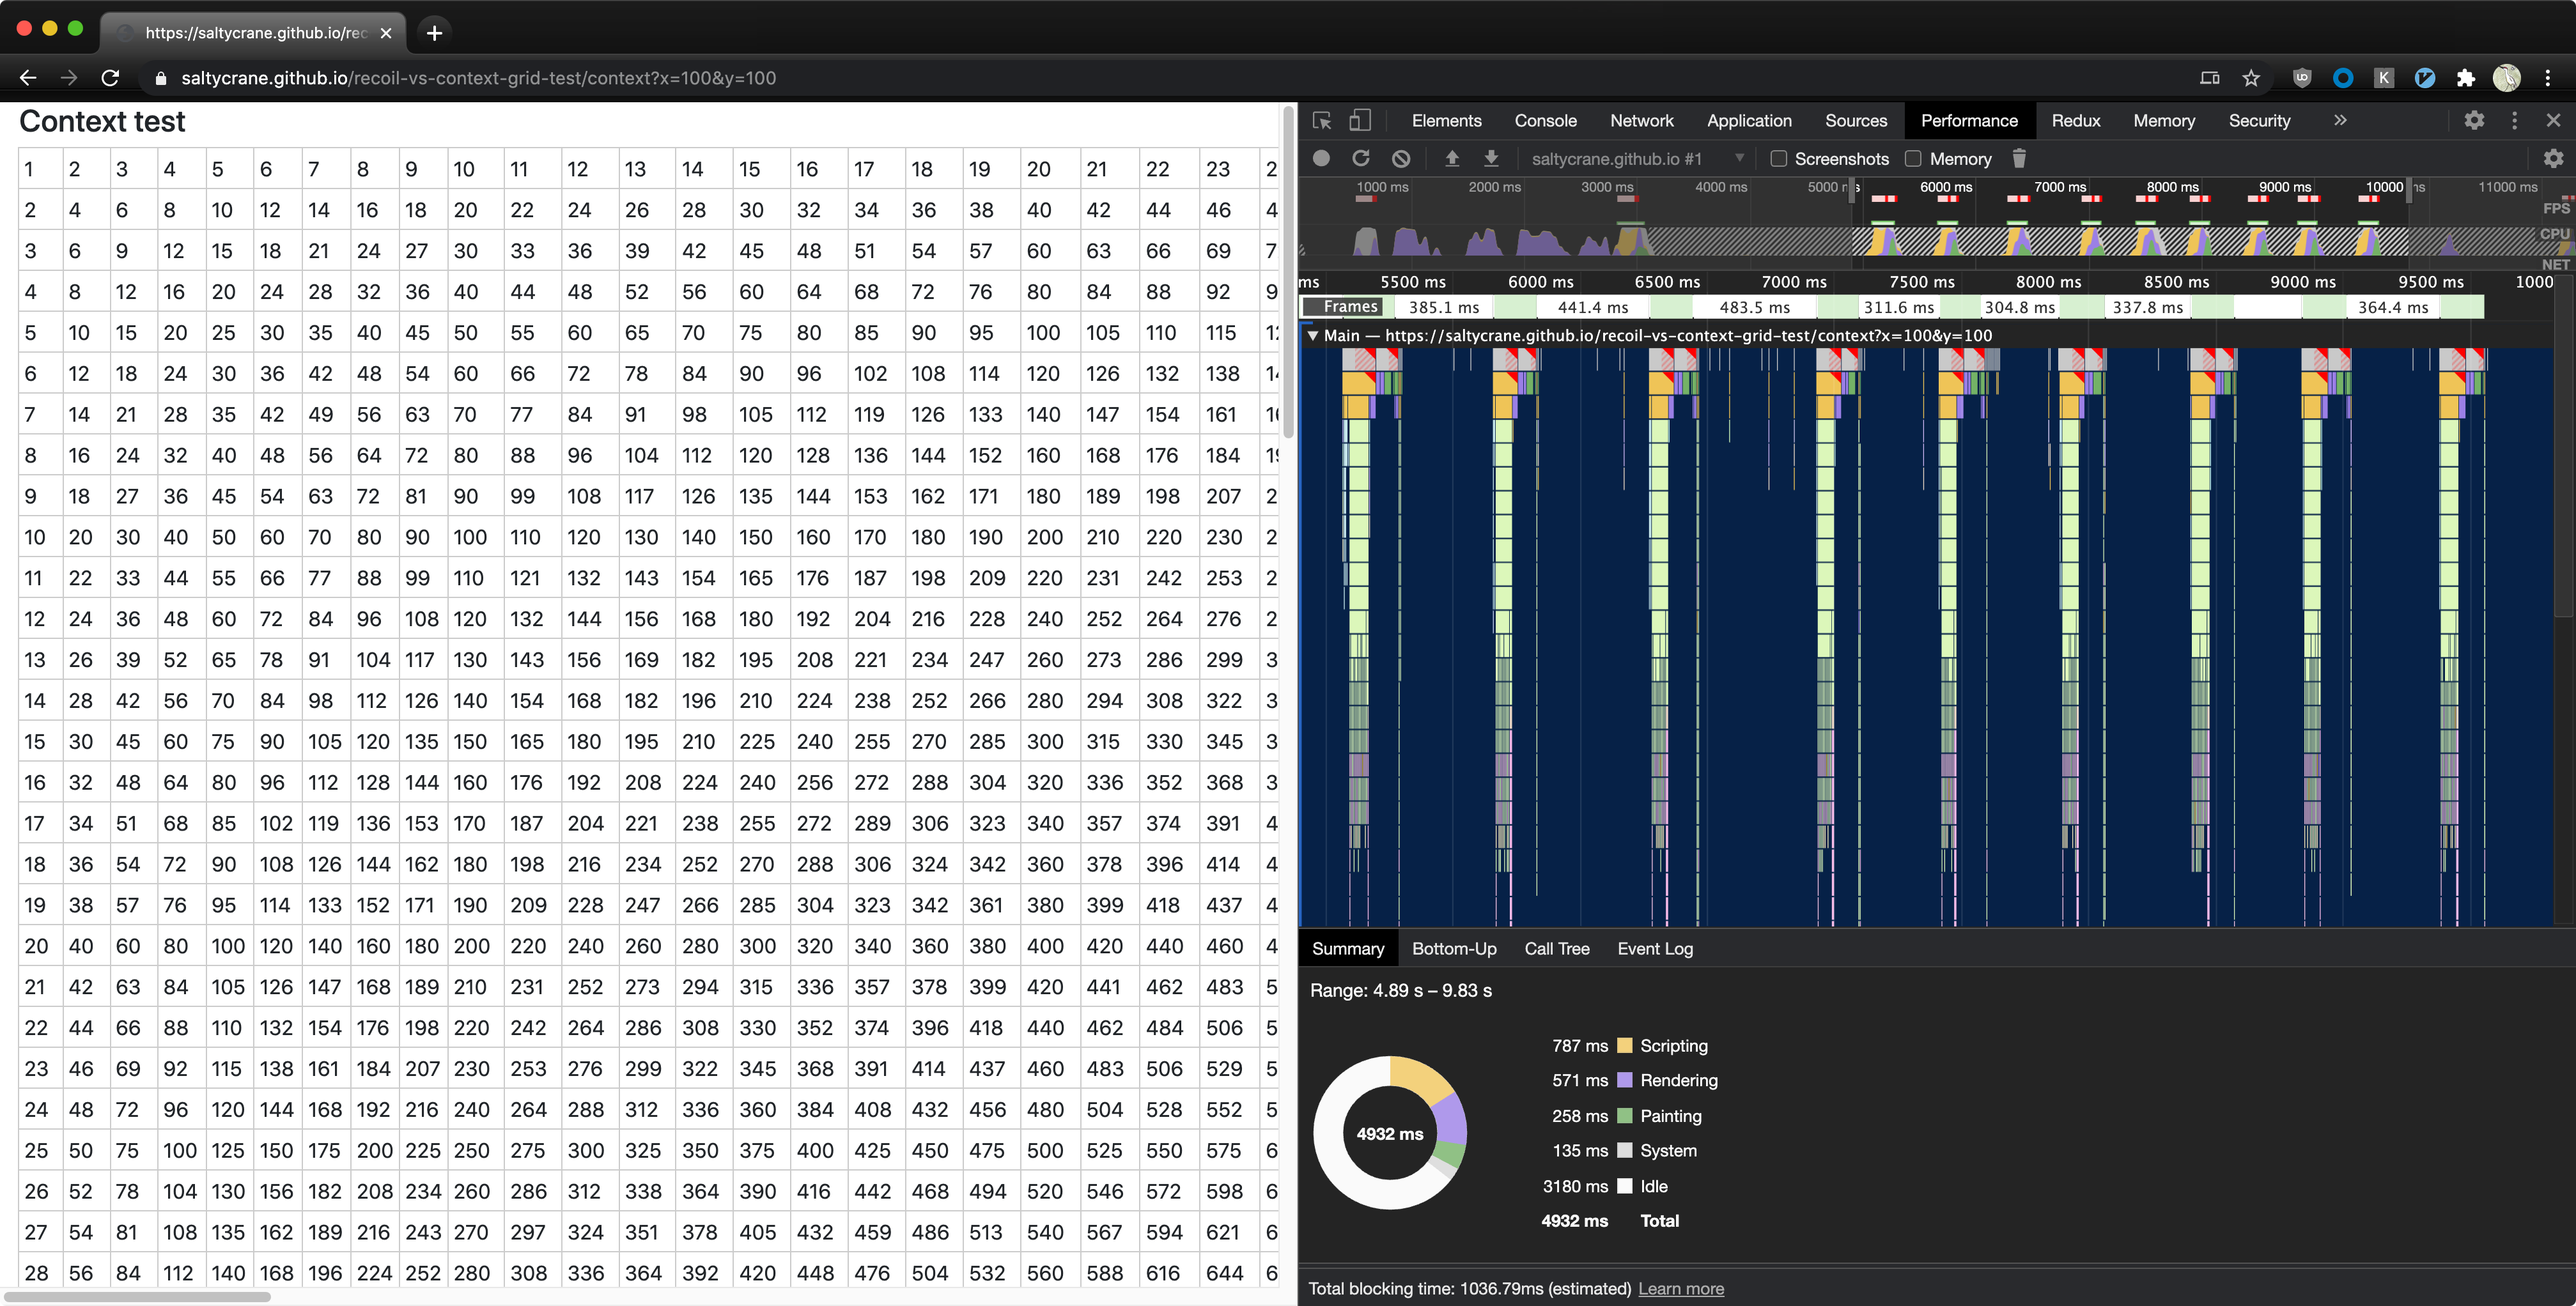
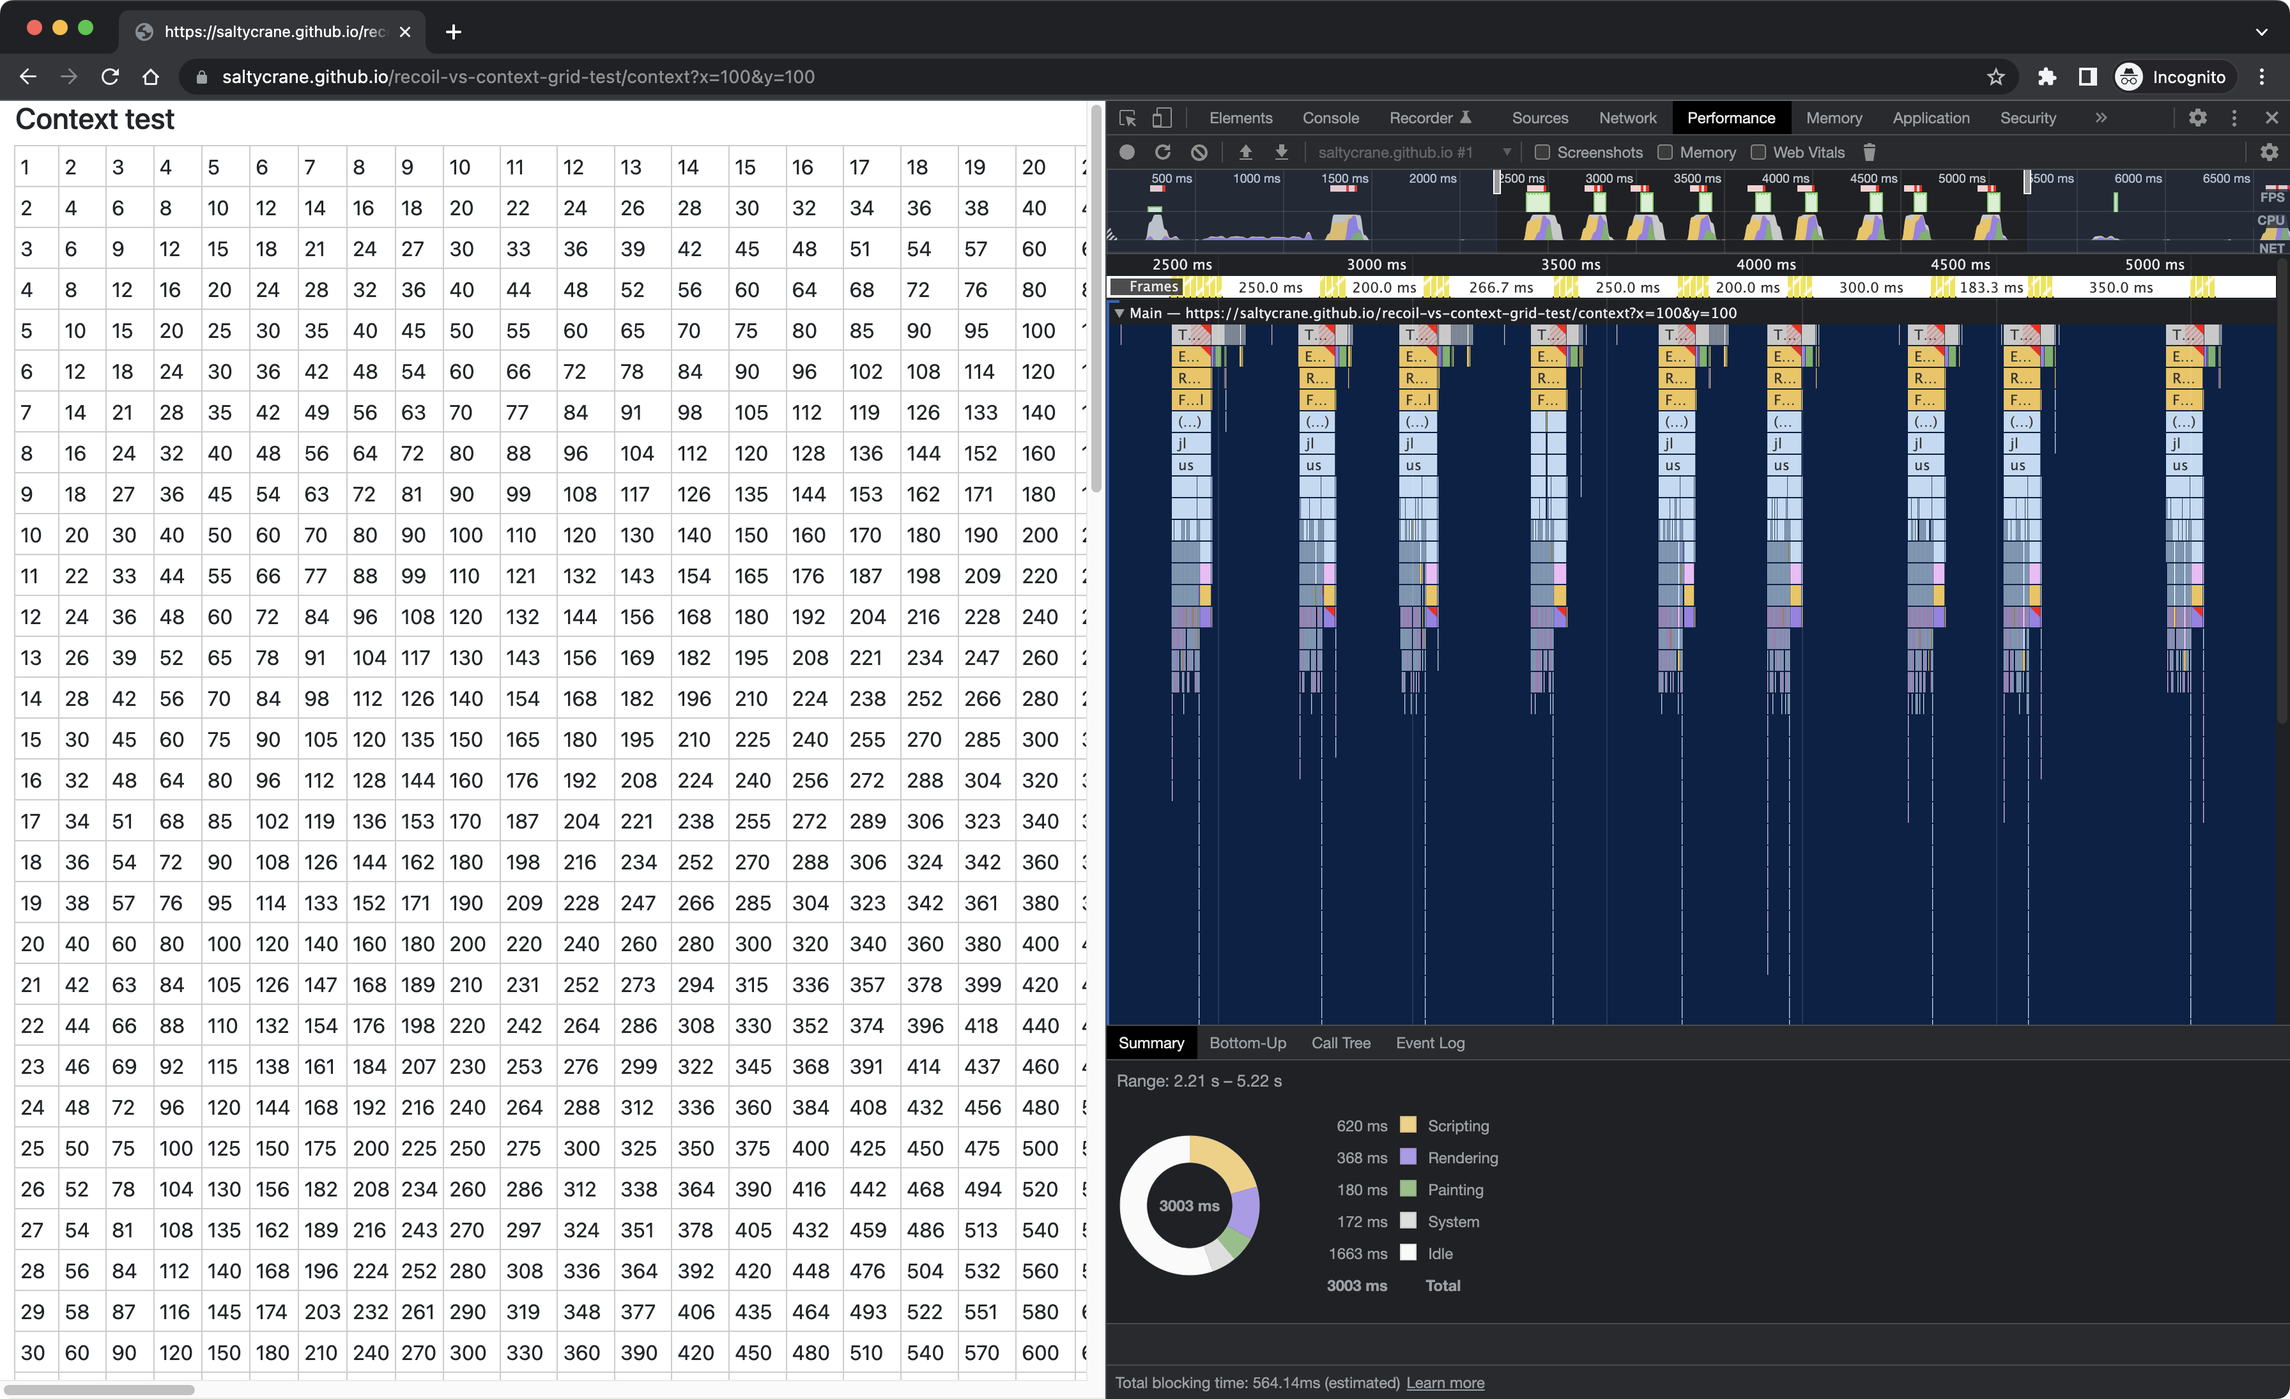
update results for 0.7.2

Changed region(s): [[0.0, 0.0, 1.0, 1.0]]

diff --git a/README.md b/README.md
@@ -1,12 +1,12 @@
 # recoil-vs-context-grid-test
 
-This is an attempt to compare performance of a spreadsheet-like grid when using React Context vs. the [Recoil](https://recoiljs.org/) library for state management. It uses Recoil v0.4.1 and React v17.0.2.
+This is an attempt to compare performance of a spreadsheet-like grid when using React Context vs. the [Recoil](https://recoiljs.org/) library for state management. It uses Recoil v0.7.2 and React v18.1.0.
 
 ## Demo
 
 https://saltycrane.github.io/recoil-vs-context-grid-test/
 
-## Usage
+## Usage (dev mode)
 
 ```
 $ npm install
@@ -15,21 +15,9 @@ $ npm run dev
 
 Go to http://localhost:3000 in the browser
 
-## Results
+## Results (production mode)
 
-### Dev mode
-
-When using [Dev mode](https://reactjs.org/docs/optimizing-performance.html#use-the-production-build), Recoil performed much better than React Context. Using a grid of 20 x 100 cells, I clicked the "100" cell and pressed the "Up Arrow" key 9 times until the "10" cell was selected. The React Context grid gave 18% (724ms / 4002ms) Idle time during this interaction. The Recoil grid gave 93% (3708ms / 4002ms) Idle time.
-
-**Context Screenshot (dev mode)**
-![context dev screenshot](./img/context-dev-screenshot.png)
-
-**Recoil Screenshot (dev mode)**
-![recoil dev screenshot](./img/recoil-dev-screenshot.png)
-
-### Production mode
-
-What's really important is performance in Production mode. I increased the grid size to 100 x 100 cells and performed the same test pressing the "Up Arrow" key 9 times. The React Context grid gave 64% (3180ms / 4932ms) Idle time during this interaction. The Recoil grid gave 60% (2951ms / 4931ms) Idle time. They performed about the same.
+Using the [demo page](https://saltycrane.github.io/recoil-vs-context-grid-test/) which uses [production mode](https://reactjs.org/docs/optimizing-performance.html#use-the-production-build), and a grid of 100 x 100 cells, I clicked the "100" cell and pressed the "Up Arrow" key 9 times until the "10" cell was selected. The React Context grid gave 1340ms (3003ms - 1663ms) of non-Idle time during this interaction. The Recoil grid gave 886ms (2901ms - 2035ms) non-Idle time. This is about a 30% advantage for Recoil. The Scripting time was 20X less for Recoil (31ms vs 620ms) while the Rendering time was higher for Recoil (609ms vs 368ms). I'm not sure what this means.
 
 **Context Screenshot (prod mode)**
 ![context prod screenshot](./img/context-prod-screenshot.png)
